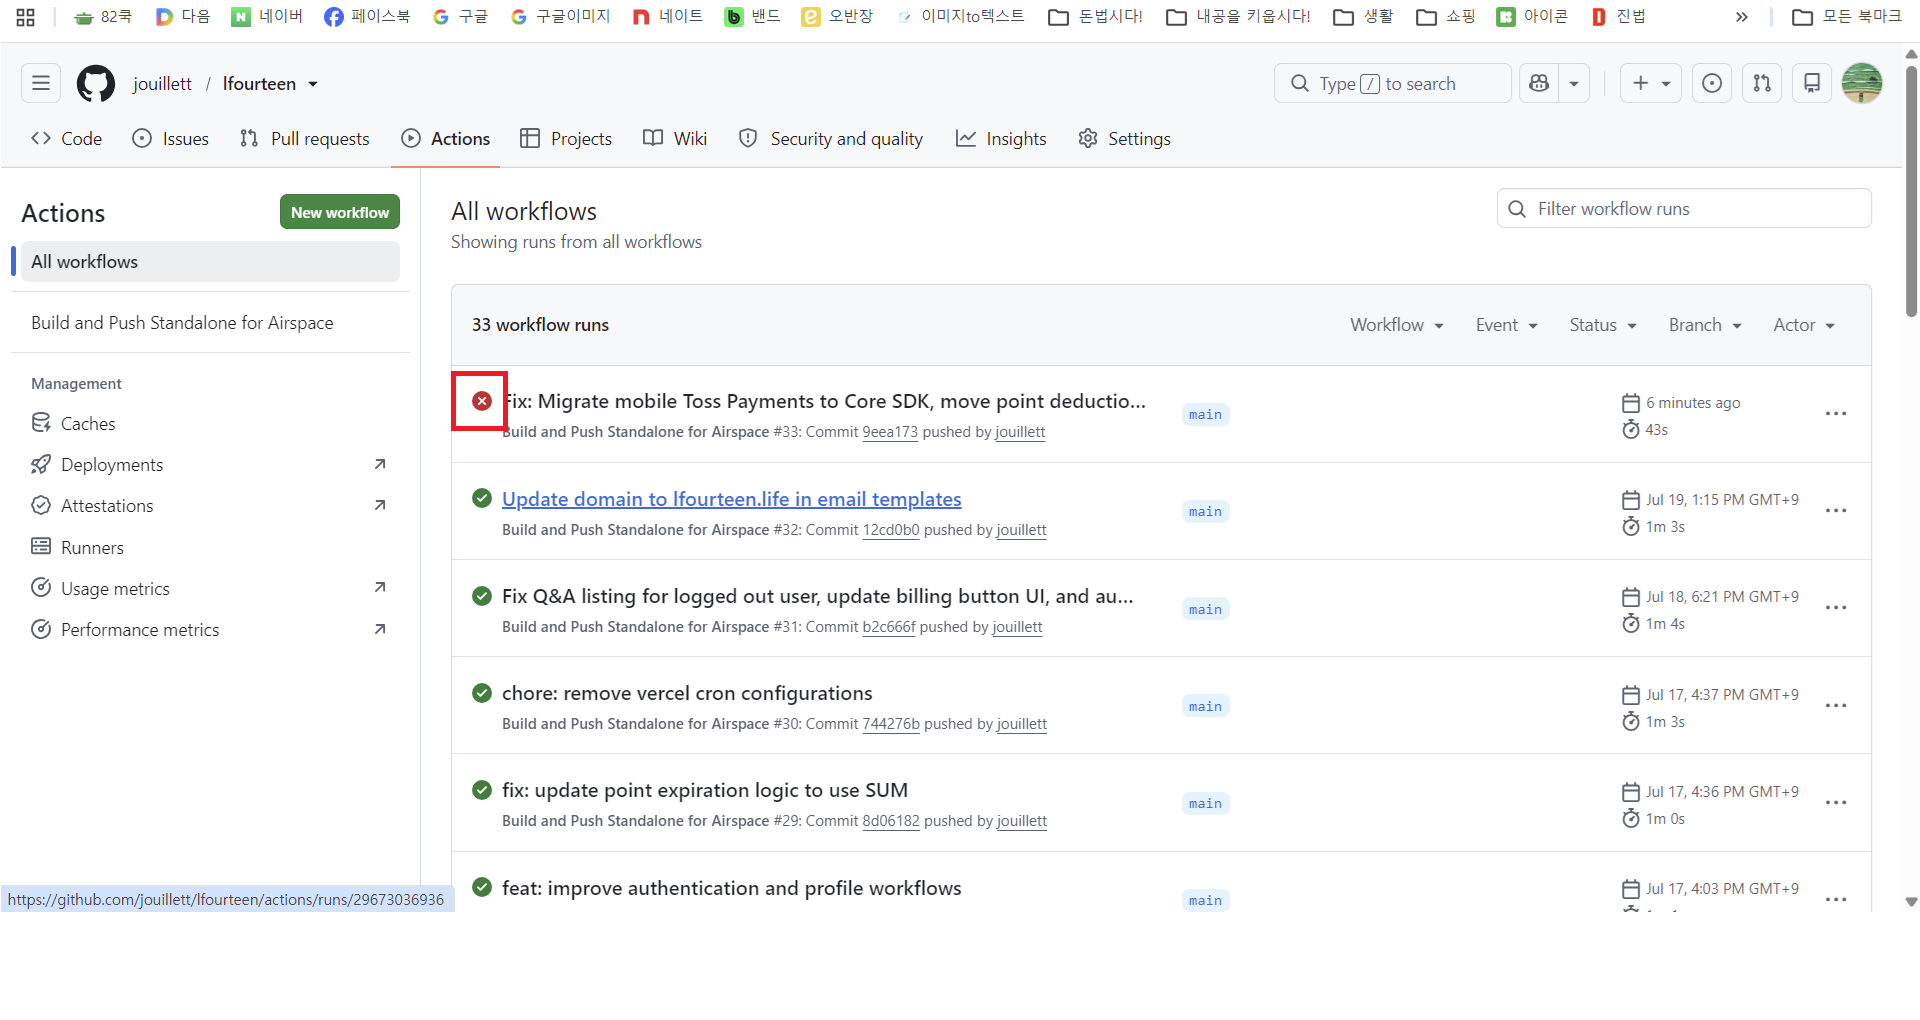
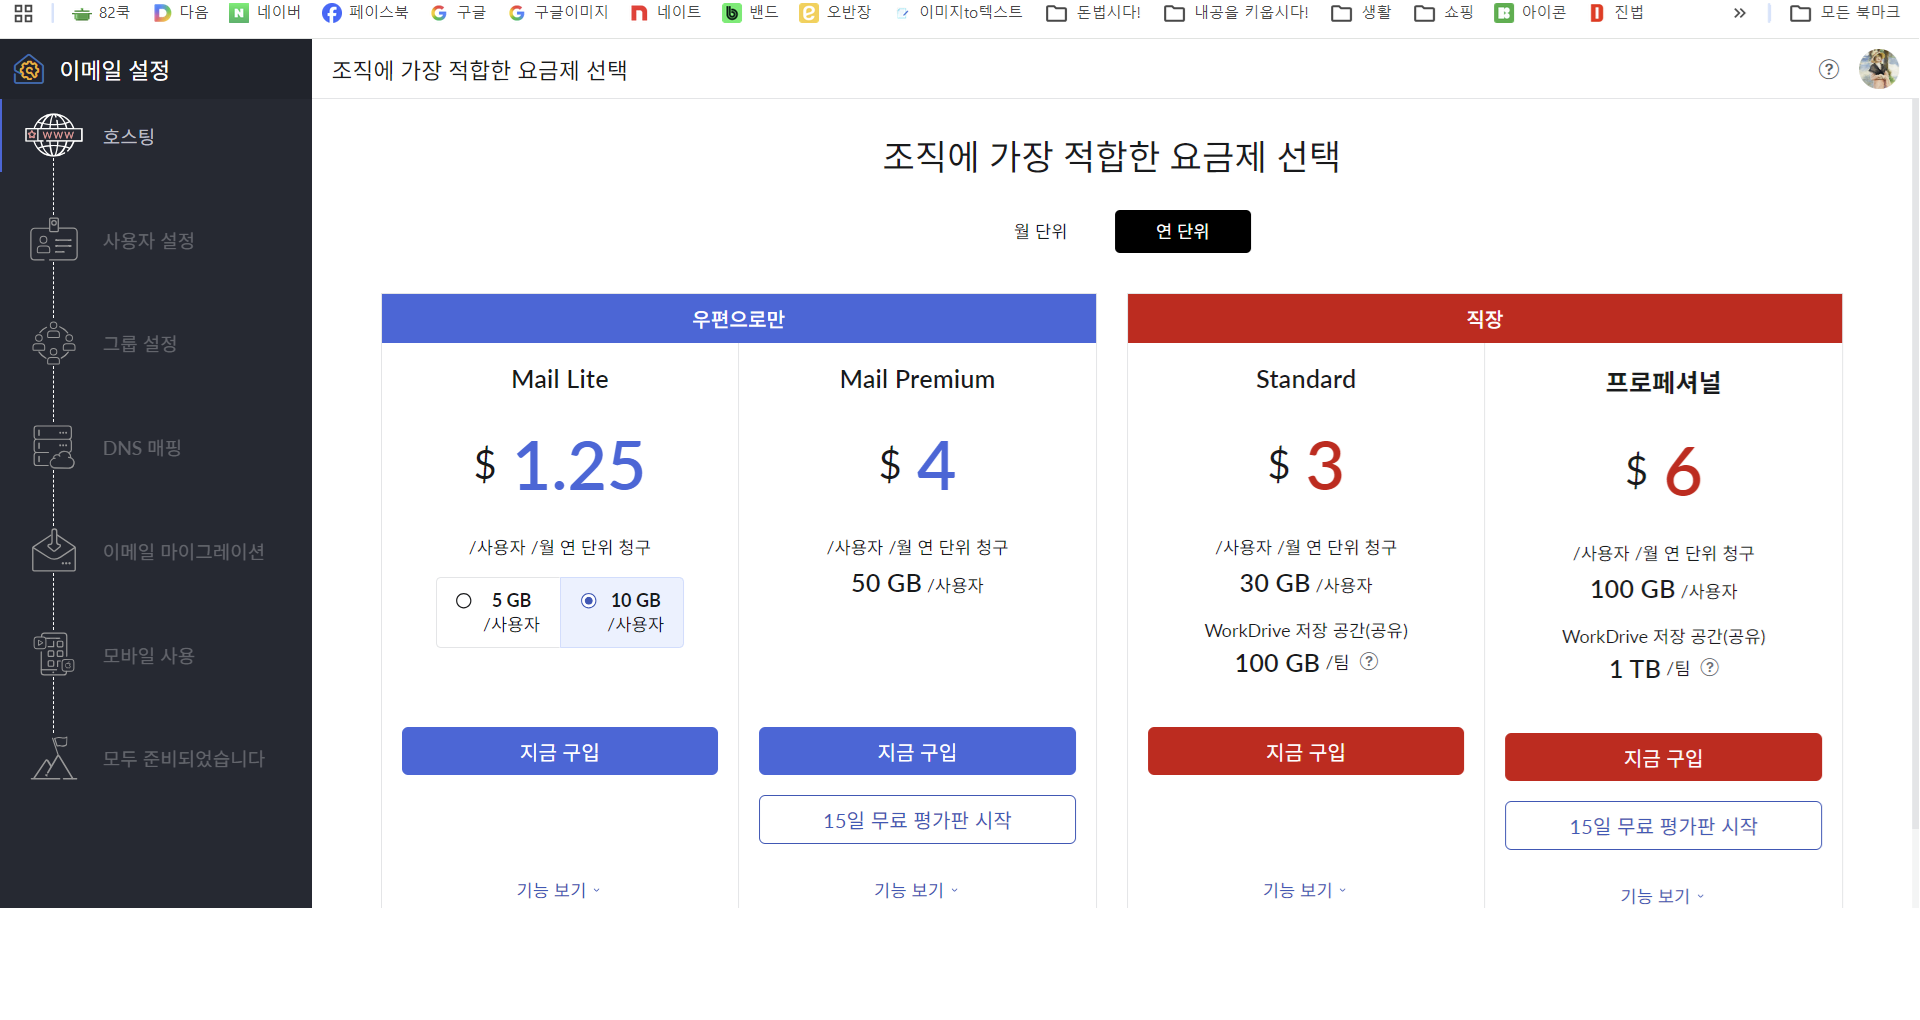
Feat: Add virtual account/bank transfer pending status (99), webhook, daily cron, and manage page update

diff --git a/app/api/cron/check-virtual-accounts/route.ts b/app/api/cron/check-virtual-accounts/route.ts
@@ -1,0 +1,108 @@
+import { NextResponse } from 'next/server';
+import pool from '../../../../lib/db';
+
+export const dynamic = 'force-dynamic';
+
+export async function GET(req: Request) {
+  const authHeader = req.headers.get('authorization');
+  const cronSecret = process.env.CRON_SECRET;
+  if (cronSecret && authHeader !== `Bearer ${cronSecret}`) {
+    return NextResponse.json({ success: false, message: 'Unauthorized' }, { status: 401 });
+  }
+
+  console.log('[cron/check-virtual-accounts] Starting daily virtual account verification...');
+
+  const secretKey = process.env.TOSS_API_SECRET_KEY || process.env.TOSS_SECRET_KEY || '';
+  const authTossHeader = 'Basic ' + Buffer.from(secretKey + ':').toString('base64');
+
+  const connection = await pool.getConnection();
+  try {
+    // Status 99인 주문 모두 조회
+    const [pendingOrders]: any = await connection.execute(
+      `SELECT id, order_number, payment_key, payment_method, customer_id, used_point, created_at
+       FROM orders WHERE status = 99 ORDER BY created_at ASC`
+    );
+
+    console.log('[cron/check-virtual-accounts] Found pending orders:', pendingOrders.length);
+
+    let confirmedCount = 0;
+    let expiredCount = 0;
+    let errorCount = 0;
+
+    for (const order of pendingOrders) {
+      if (!order.payment_key) {
+        console.warn('[cron/check-virtual-accounts] No payment_key for order:', order.id);
+        continue;
+      }
+
+      try {
+        const tossRes = await fetch(`https://api.tosspayments.com/v1/payments/${order.payment_key}`, {
+          method: 'GET',
+          headers: { 'Authorization': authTossHeader },
+        });
+
+        if (!tossRes.ok) {
+          console.error('[cron/check-virtual-accounts] Toss API error for order:', order.id, tossRes.status);
+          errorCount++;
+          continue;
+        }
+
+        const payment = await tossRes.json();
+        console.log(`[cron/check-virtual-accounts] Order ${order.id}: Toss status = ${payment.status}`);
+
+        if (payment.status === 'DONE') {
+          // 입금 확인 → 결제완료(0)로 변경
+          await connection.execute(
+            'UPDATE orders SET status = 0 WHERE id = ?',
+            [order.id]
+          );
+          confirmedCount++;
+          console.log(`[cron/check-virtual-accounts] Order ${order.id}: 99 → 0 (결제완료)`);
+        } else if (payment.status === 'EXPIRED' || payment.status === 'CANCELED') {
+          // 만료/취소 → 취소(3)로 변경, 포인트 환불
+          await connection.execute(
+            'UPDATE orders SET status = 3 WHERE id = ?',
+            [order.id]
+          );
+          expiredCount++;
+          console.log(`[cron/check-virtual-accounts] Order ${order.id}: 99 → 3 (취소/만료). Toss status: ${payment.status}`);
+
+          // 사용 포인트 환불 처리
+          if (order.used_point > 0 && order.customer_id) {
+            await connection.execute(
+              `INSERT INTO points (customer_id, order_id, point_amount, created_at, expired_at)
+               VALUES (?, ?, ?, NOW(), DATE_ADD(CURDATE(), INTERVAL 1 MONTH))`,
+              [order.customer_id, order.id, order.used_point]
+            );
+            await connection.execute(
+              'UPDATE customers SET point = point + ? WHERE id = ?',
+              [order.used_point, order.customer_id]
+            );
+            console.log(`[cron/check-virtual-accounts] Refunded ${order.used_point} points to customer ${order.customer_id}`);
+          }
+        } else {
+          // WAITING_FOR_DEPOSIT 등 아직 입금 대기 중
+          console.log(`[cron/check-virtual-accounts] Order ${order.id}: Still pending. Toss status: ${payment.status}`);
+        }
+      } catch (innerError: any) {
+        console.error(`[cron/check-virtual-accounts] Error processing order ${order.id}:`, innerError?.message);
+        errorCount++;
+      }
+    }
+
+    connection.release();
+    console.log(`[cron/check-virtual-accounts] Done. confirmed=${confirmedCount}, expired=${expiredCount}, errors=${errorCount}`);
+
+    return NextResponse.json({
+      success: true,
+      total: pendingOrders.length,
+      confirmed: confirmedCount,
+      expired: expiredCount,
+      errors: errorCount,
+    });
+  } catch (error: any) {
+    connection.release();
+    console.error('[cron/check-virtual-accounts] Fatal error:', error?.message);
+    return NextResponse.json({ success: false, message: 'Internal server error' }, { status: 500 });
+  }
+}

diff --git a/app/api/webhook/toss/route.ts b/app/api/webhook/toss/route.ts
@@ -1,0 +1,95 @@
+import { NextResponse } from 'next/server';
+import pool from '../../../../lib/db';
+import { RowDataPacket } from '@/lib/db';
+
+export const dynamic = 'force-dynamic';
+
+export async function POST(req: Request) {
+  try {
+    const body = await req.json();
+    const { eventType, data } = body;
+    console.log('[toss-webhook] Received event:', eventType, JSON.stringify(data));
+
+    // Only handle virtual account deposit and payment status changes
+    if (eventType !== 'VIRTUAL_ACCOUNT_FUNDED' && eventType !== 'PAYMENT_STATUS_CHANGED') {
+      return NextResponse.json({ success: true, message: 'Event not handled' });
+    }
+
+    const paymentKey = data?.paymentKey;
+    const orderId = data?.orderId; // e.g. "order_1234567890"
+
+    if (!paymentKey || !orderId) {
+      console.warn('[toss-webhook] Missing paymentKey or orderId');
+      return NextResponse.json({ success: false, message: 'Missing paymentKey or orderId' }, { status: 400 });
+    }
+
+    // 2차 검증: Toss API로 실제 결제 상태 재확인
+    const secretKey = process.env.TOSS_API_SECRET_KEY || process.env.TOSS_SECRET_KEY || '';
+    const authHeader = 'Basic ' + Buffer.from(secretKey + ':').toString('base64');
+
+    const tossRes = await fetch(`https://api.tosspayments.com/v1/payments/${paymentKey}`, {
+      method: 'GET',
+      headers: { 'Authorization': authHeader },
+    });
+
+    if (!tossRes.ok) {
+      console.error('[toss-webhook] Failed to verify payment with Toss API:', tossRes.status);
+      return NextResponse.json({ success: false, message: 'Payment verification failed' }, { status: 500 });
+    }
+
+    const payment = await tossRes.json();
+    console.log('[toss-webhook] Payment status from Toss:', payment.status, 'method:', payment.method);
+
+    // orderId에서 숫자 부분만 추출 (order_ 제거)
+    const orderNum = orderId.replace(/^order_/, '');
+
+    const connection = await pool.getConnection();
+    try {
+      const [orderRows]: any = await connection.execute(
+        'SELECT id, status FROM orders WHERE order_number = ? LIMIT 1',
+        [orderNum]
+      );
+
+      if (!orderRows || orderRows.length === 0) {
+        console.warn('[toss-webhook] Order not found for orderNum:', orderNum);
+        connection.release();
+        return NextResponse.json({ success: false, message: 'Order not found' }, { status: 404 });
+      }
+
+      const order = orderRows[0];
+
+      if (payment.status === 'DONE') {
+        // 입금 완료 → status 0(결제완료)으로 변경
+        if (Number(order.status) === 99) {
+          await connection.execute(
+            'UPDATE orders SET status = 0 WHERE id = ?',
+            [order.id]
+          );
+          console.log('[toss-webhook] Order', order.id, 'status updated: 99 → 0 (결제완료)');
+        } else {
+          console.log('[toss-webhook] Order', order.id, 'already processed, status:', order.status);
+        }
+      } else if (payment.status === 'EXPIRED' || payment.status === 'CANCELED') {
+        // 기한 만료 / 취소 → status 3(취소)으로 변경
+        if (Number(order.status) === 99) {
+          await connection.execute(
+            'UPDATE orders SET status = 3 WHERE id = ?',
+            [order.id]
+          );
+          console.log('[toss-webhook] Order', order.id, 'status updated: 99 → 3 (취소). Toss status:', payment.status);
+        }
+      } else {
+        console.log('[toss-webhook] Payment status not actionable:', payment.status);
+      }
+
+      connection.release();
+      return NextResponse.json({ success: true });
+    } catch (dbError) {
+      connection.release();
+      throw dbError;
+    }
+  } catch (error: any) {
+    console.error('[toss-webhook] Error:', error?.message);
+    return NextResponse.json({ success: false, message: 'Internal server error' }, { status: 500 });
+  }
+}

diff --git a/app/join/page.tsx b/app/join/page.tsx
@@ -1,6 +1,6 @@
 "use client";
 
-import { useState } from "react";
+import { useState, useEffect } from "react";
 import Link from "next/link";
 import Header from "../../components/Header";
 import Footer from "../../components/Footer";
@@ -12,6 +12,23 @@ export default function JoinPage() {
   const [authCode, setAuthCode] = useState("");
   const [expectedCode, setExpectedCode] = useState("");
   const [errorMsg, setErrorMsg] = useState("");
+
+  useEffect(() => {
+    if (typeof window !== "undefined") {
+      const params = new URLSearchParams(window.location.search);
+      const phoneParam = params.get("phone");
+      if (phoneParam) {
+        // Simple formatter for 01012345678 -> 010-1234-5678
+        let formatted = phoneParam.replace(/\D/g, "");
+        if (formatted.length === 11) {
+          formatted = `${formatted.slice(0, 3)}-${formatted.slice(3, 7)}-${formatted.slice(7)}`;
+        } else if (formatted.length === 10) {
+          formatted = `${formatted.slice(0, 3)}-${formatted.slice(3, 6)}-${formatted.slice(6)}`;
+        }
+        setPhone(formatted);
+      }
+    }
+  }, []);
 
   const isPhoneValid = phone.length === 13; // 010-XXXX-XXXX
   const isCodeValid = authCode.length === 6;

diff --git a/app/api/order/confirm/route.ts b/app/api/order/confirm/route.ts
@@ -165,11 +165,14 @@ export async function POST(req: Request) {
     }
 
     // 5. Insert into orders
-    console.log('[confirm] Inserting order...');
+    // 가상계좌/계좌이체는 즉시 입금되지 않으므로 status=99(결제대기)로 저장
+    const isPendingPayment = paymentMethod === '가상계좌' || paymentMethod === '계좌이체';
+    const initialStatus = isPendingPayment ? 99 : 0;
+    console.log('[confirm] Inserting order... paymentMethod:', paymentMethod, 'initialStatus:', initialStatus);
     const [orderResult]: any = await connection.execute(
-      `INSERT INTO orders (order_number, order_name, customer_id, memo, total_price, used_point, payment_key, payment_method,
+      `INSERT INTO orders (order_number, order_name, customer_id, memo, total_price, used_point, payment_key, payment_method, status,
         receiver_name, receiver_mobile, receiver_phone, receiver_address, delivery_message)
-       VALUES (?, ?, ?, ?, ?, ?, ?, ?, ?, ?, ?, ?, ?)`,
+       VALUES (?, ?, ?, ?, ?, ?, ?, ?, ?, ?, ?, ?, ?, ?)`,
       [
         orderNum,
         orderName,
@@ -179,6 +182,7 @@ export async function POST(req: Request) {
         Number(orderInfo?.pointUsed) || 0,
         paymentKey,
         paymentMethod,
+        initialStatus,
         orderInfo?.receiverName || '',
         (orderInfo?.receiverMobile || '').replace(/-/g, ''),
         (orderInfo?.receiverPhone || '').replace(/-/g, ''),
@@ -205,8 +209,8 @@ export async function POST(req: Request) {
       console.log('[confirm] Cart cleared for customer:', customerId);
     }
 
-    // 7. Deduct Points if used
-    if (orderInfo?.pointUsed > 0 && customerId) {
+    // 7. Deduct Points if used — 가상계좌/계좌이체 대기 주문은 입금 확인 후 차감하지 않음 (크론잡/웹훅에서 처리)
+    if (orderInfo?.pointUsed > 0 && customerId && !isPendingPayment) {
       console.log('[confirm] Deducting used points:', orderInfo.pointUsed);
       let pointsToDeduct = Number(orderInfo.pointUsed);
       const [pointRecords]: any = await connection.execute(

diff --git a/app/manage/page.tsx b/app/manage/page.tsx
@@ -52,6 +52,7 @@ export default function ManagePage() {
 
   const getStatusText = (status: any) => {
     switch(Number(status)) {
+      case 99: return "결제대기";
       case 0: return "결제완료";
       case 1: return "배송중";
       case 2: return "배송완료";
@@ -62,6 +63,14 @@ export default function ManagePage() {
       case 7: return "반품진행";
       case 8: return "반품완료";
       default: return "";
+    }
+  };
+
+  const getStatusBadgeStyle = (status: any) => {
+    switch(Number(status)) {
+      case 99: return { background: '#fef08a', color: '#854d0e', border: '1px solid #eab308', borderRadius: '6px', padding: '2px 8px', fontWeight: 700, fontSize: '12px' };
+      case 0: return { background: '#dcfce7', color: '#166534', border: '1px solid #16a34a', borderRadius: '6px', padding: '2px 8px', fontWeight: 600, fontSize: '12px' };
+      default: return { background: '#f1f5f9', color: '#475569', border: '1px solid #cbd5e1', borderRadius: '6px', padding: '2px 8px', fontWeight: 600, fontSize: '12px' };
     }
   };
 
@@ -122,7 +131,7 @@ export default function ManagePage() {
             </section>
 
             <section>
-              <h2 className="text-[22px] font-bold text-on-surface mb-6">결제완료, 교환/반품 진행중 (Orders: Status 0, 4, 5, 7)</h2>
+              <h2 className="text-[22px] font-bold text-on-surface mb-6">결제대기, 결제완료, 교환/반품 진행중 (Orders: Status 99, 0, 4, 5, 7)</h2>
               {orders.length === 0 ? (
                 <div className="bg-surface-container-lowest border border-outline-variant rounded-xl p-8 text-center text-on-surface-variant">
                   진행중인 교환/반품 건이 없습니다.
@@ -153,7 +162,7 @@ export default function ManagePage() {
                           <td className="px-6 py-4">{order.customer_id}</td>
                           <td className="px-6 py-4">{order.order_name || '-'}</td>
                           <td className="px-6 py-4">
-                            <span className="font-bold text-red-500">{getStatusText(order.status)}</span>
+                            <span style={getStatusBadgeStyle(order.status)}>{getStatusText(order.status)}</span>
                           </td>
                           <td className="px-6 py-4">{order.total_price ? order.total_price.toLocaleString() : '0'}원</td>
                           <td className="px-6 py-4">{formatDate(order.created_at)}</td>

diff --git a/app/api/manage/route.ts b/app/api/manage/route.ts
@@ -18,7 +18,7 @@ export async function GET(req: Request) {
         return pItem;
       });
 
-      const [orderRows]: any = await connection.query('SELECT * FROM orders WHERE status IN (0, 4, 5, 7) ORDER BY created_at DESC');
+      const [orderRows]: any = await connection.query('SELECT * FROM orders WHERE status IN (99, 0, 4, 5, 7) ORDER BY created_at DESC');
       const processedOrders = orderRows.map((item: any) => {
         const pItem = { ...item };
         for (const key in pItem) {

diff --git a/app/login/page.tsx b/app/login/page.tsx
@@ -75,7 +75,7 @@ export default function LoginPage() {
         } else if (data.reason === "not_found") {
           const wantsJoin = window.confirm("가입되지 않은 전화번호입니다.\n지금 가입하시겠습니까?");
           if (wantsJoin) {
-            window.location.href = "/join";
+            window.location.href = `/join?phone=${encodeURIComponent(phone.replace(/\D/g, ""))}`;
           }
         } else {
           alert(data.message || "로그인에 실패했습니다.");